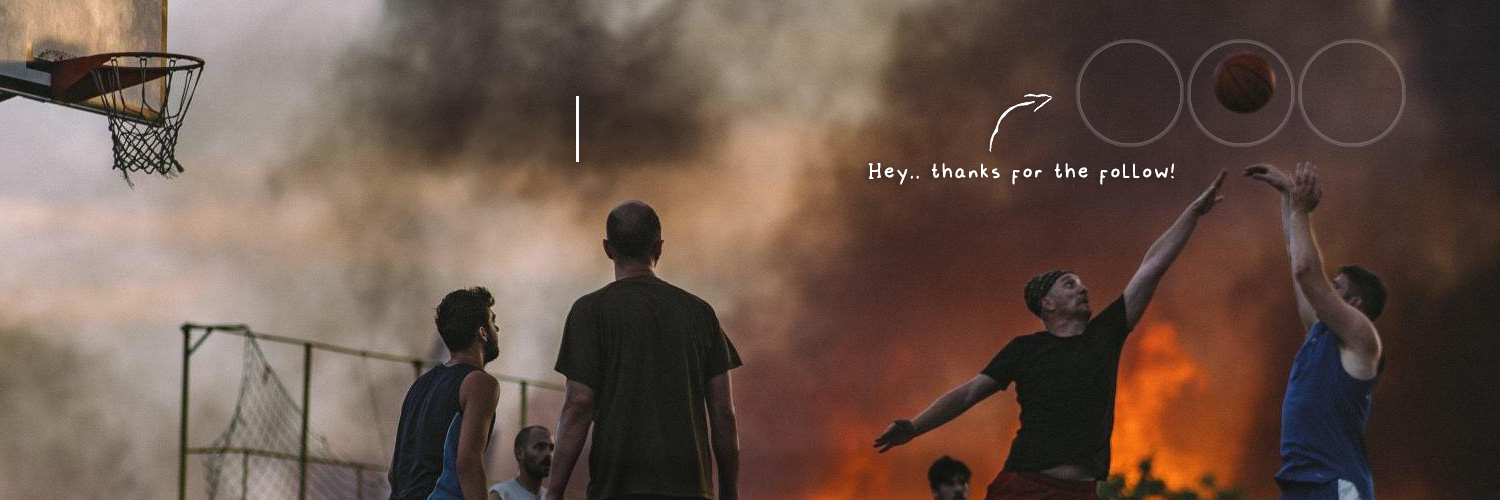
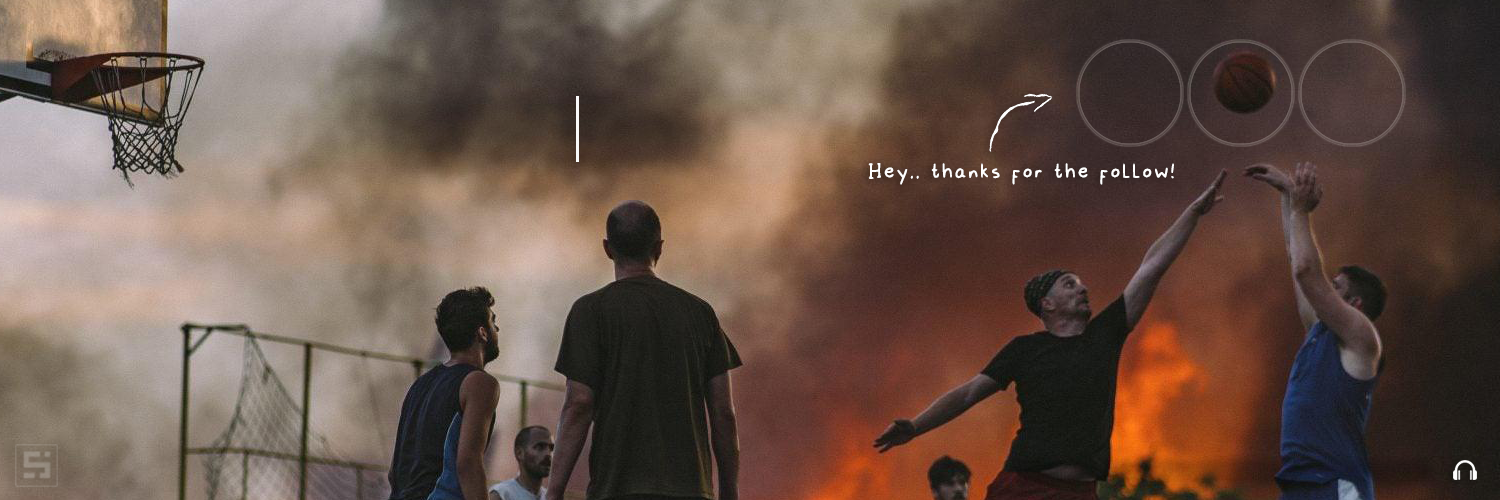
Listening small improvement

diff --git a/sgitsp.js b/sgitsp.js
@@ -131,12 +131,13 @@ async function drawBanner() {
       banner.print(timeFont, 380, 92, currentTime(new Date));
       banner.print(dateFont, 584, 132, date);
       console.log(`Additional cosmetic added`);
-      banner.print(listeningFont, 0, 470, {
+      banner.print(listeningFont, 0, 465, {
         text: listening,
         alignmentX: Jimp.HORIZONTAL_ALIGN_RIGHT,
-      }, 1480, 500);
+        alignmentX: Jimp.VERTICAL_ALIGN_BOTTOM,
+      }, 1445, 465);
       console.log(`Generating new header...`);
-      console.log(`Last sync: ${day}, ${date} (${currentTime(new Date)} GMT+7)`);
+      console.log(`Last sync: ${day}, ${date} (${currentTime(new Date)} UTC+7)`);
       banner.write('1500x500-draw.png',function () {
         uploadBanner();
       });
